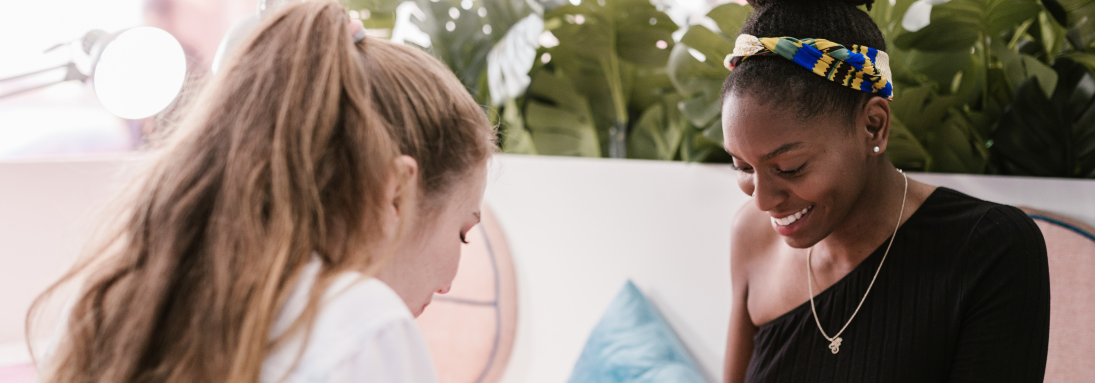
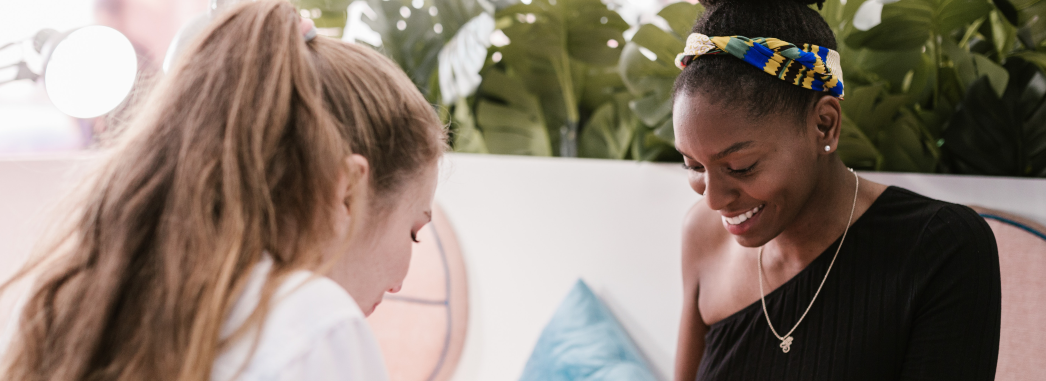
Recorte foto principal y corregi boton servicios

diff --git a/css/responsive.css b/css/responsive.css
@@ -23,12 +23,7 @@ body {
 
 .barra li:hover {
   border: solid;
-  border-color: rgb(80, 80, 80);
-}
-
-a {
-  color: rgb(255, 255, 255);
-  text-decoration: none;
+  border-color: rgb(170, 140, 123);
 }
 
 /*inicio*/
@@ -54,6 +49,12 @@ a {
   color: rgb(80, 80, 80);
   border: solid;
   border-color: rgb(80, 80, 80);
+  text-decoration: none;
+}
+
+a.botonservicios {
+  text-decoration: none;
+  color: rgb(170, 140, 123);
 }
 
 .slogan {
